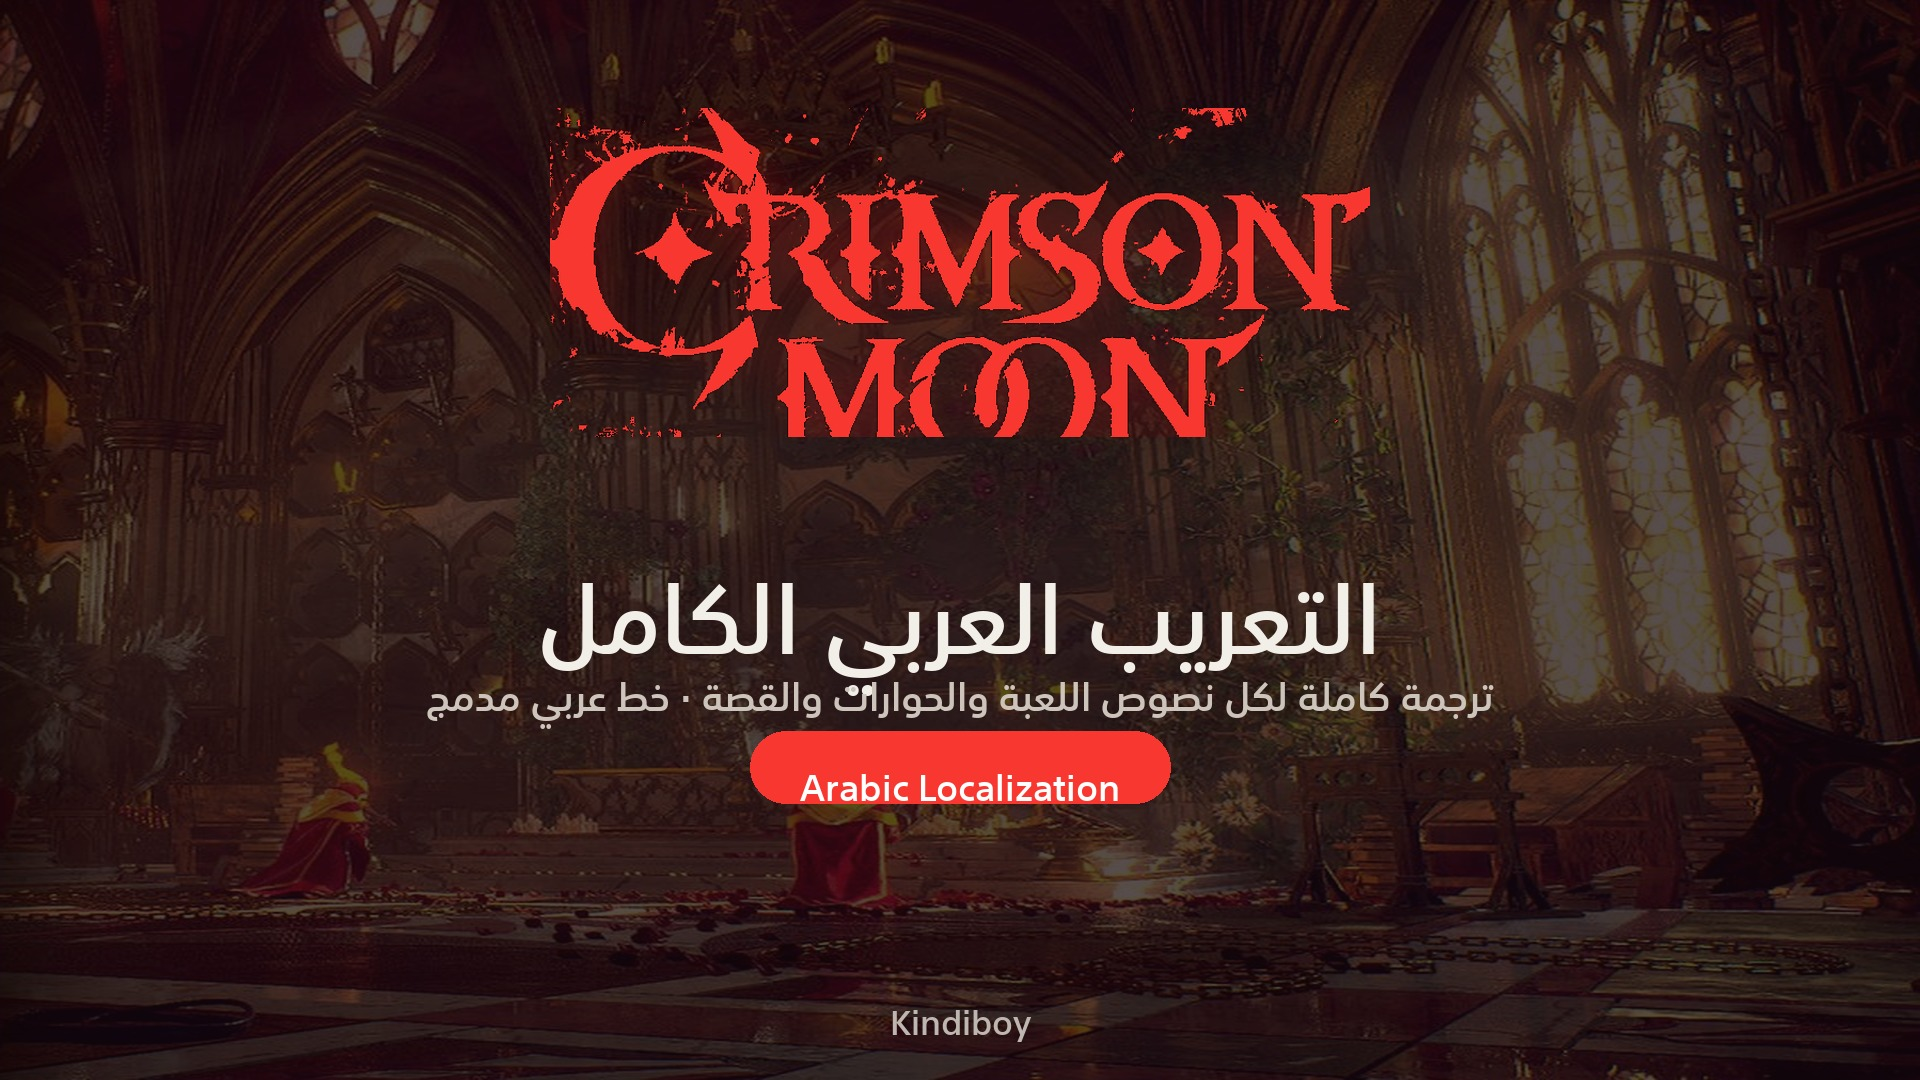
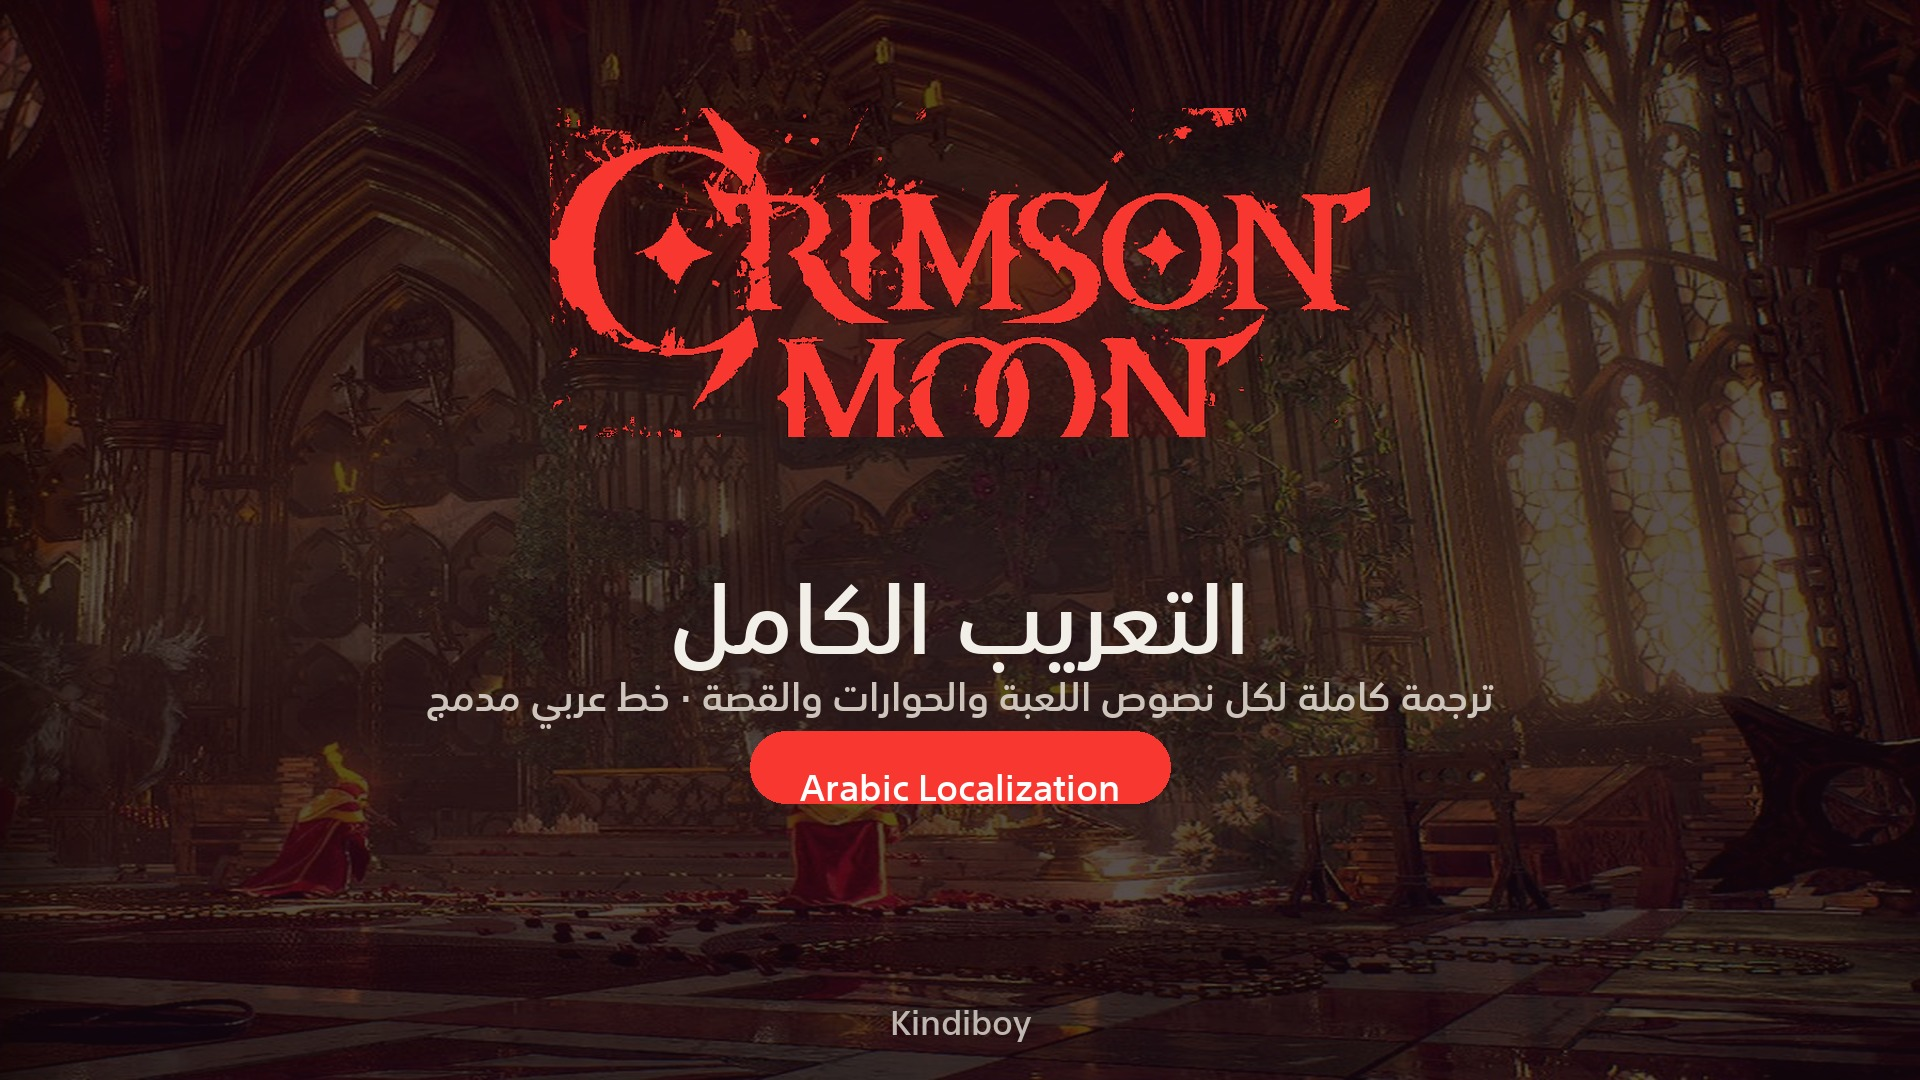
Wording: التعريب الكامل; refreshed media and installer

Changed region(s): [[0.2812, 0.5194, 0.7188, 0.6417]]

diff --git a/installer/Program.cs b/installer/Program.cs
@@ -295,7 +295,7 @@ namespace CrimsonMoonArabic
 
             var subtitle = new Label
             {
-                Text = "التعريب العربي الكامل", Font = Ui.F(18f, FontStyle.Bold), ForeColor = Ui.Gold,
+                Text = "التعريب الكامل", Font = Ui.F(18f, FontStyle.Bold), ForeColor = Ui.Gold,
                 AutoSize = false, UseCompatibleTextRendering = true, TextAlign = ContentAlignment.MiddleCenter,
                 Size = new Size(ClientSize.Width, 58), Location = new Point(0, 242), BackColor = Color.Transparent
             };

diff --git a/README.md b/README.md
@@ -1,8 +1,8 @@
 <p align="center"><a href="https://ko-fi.com/kindiboy"><img src="https://img.shields.io/badge/Ko--fi-%D8%A3%D8%B9%D8%AC%D8%A8%D9%83%20%D8%A7%D9%84%D8%AA%D8%B9%D8%B1%D9%8A%D8%A8%D8%9F%20%D8%A7%D8%AF%D8%B9%D9%85%D9%86%D9%8A%20%D8%B9%D9%84%D9%89%20Ko--fi-ff5f5f?style=for-the-badge&logo=kofi&logoColor=white" alt="Support on Ko-fi"></a></p>
 
-<p align="center"><img src="release/media/01_header_1400x400.jpg" alt="Crimson Moon — التعريب العربي الكامل" width="100%"></p>
+<p align="center"><img src="release/media/01_header_1400x400.jpg" alt="Crimson Moon — التعريب الكامل" width="100%"></p>
 
-<h1 align="center">Crimson Moon — التعريب العربي الكامل</h1>
+<h1 align="center">Crimson Moon — التعريب الكامل</h1>
 <p align="center">Complete Arabic localization for <b>Crimson Moon</b> (Steam) · تعريب كامل للعبة</p>
 
 <p align="center">

diff --git a/release/NEXUS_DESCRIPTION.md b/release/NEXUS_DESCRIPTION.md
@@ -1,4 +1,4 @@
-# Crimson Moon — Arabic Localization / التعريب العربي الكامل
+# Crimson Moon — Arabic Localization / التعريب الكامل
 
 ## العربية
 

diff --git a/release/dist/NEXUS_DESCRIPTION.md b/release/dist/NEXUS_DESCRIPTION.md
@@ -1,4 +1,4 @@
-# Crimson Moon — Arabic Localization / التعريب العربي الكامل
+# Crimson Moon — Arabic Localization / التعريب الكامل
 
 ## العربية
 
